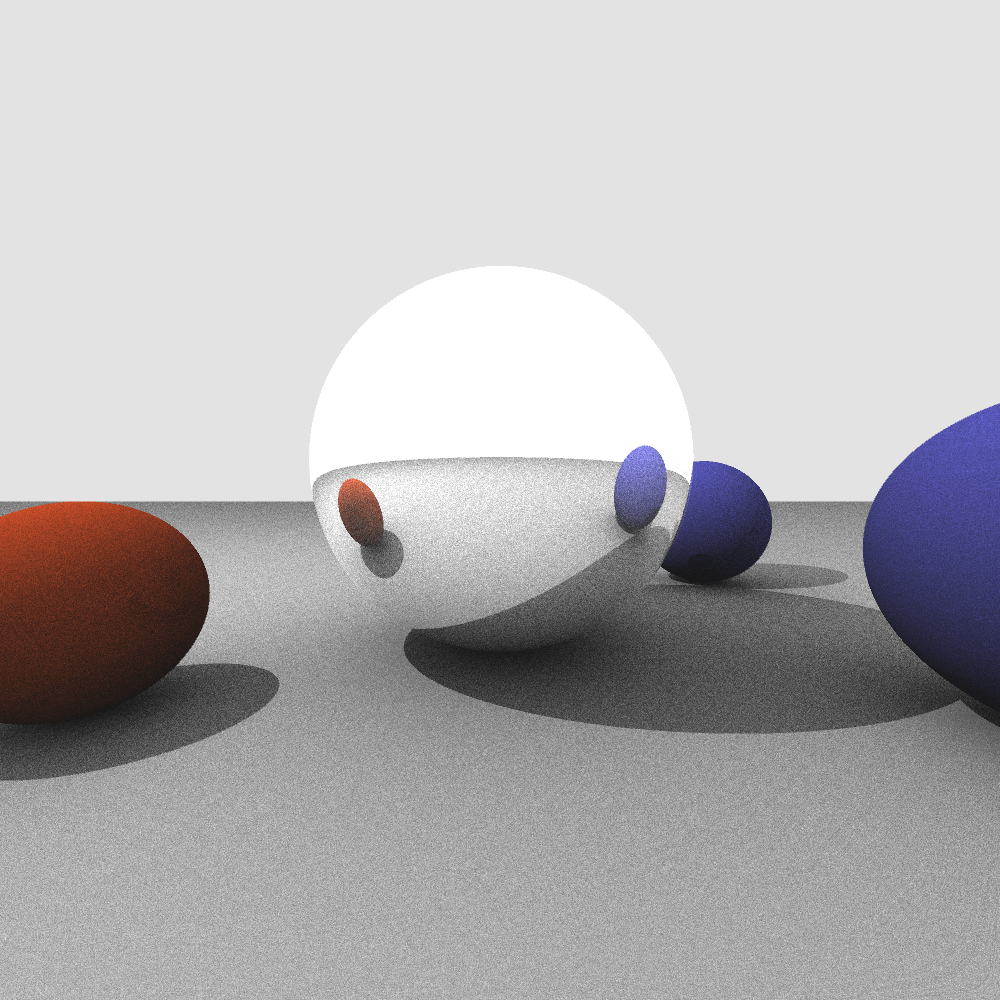
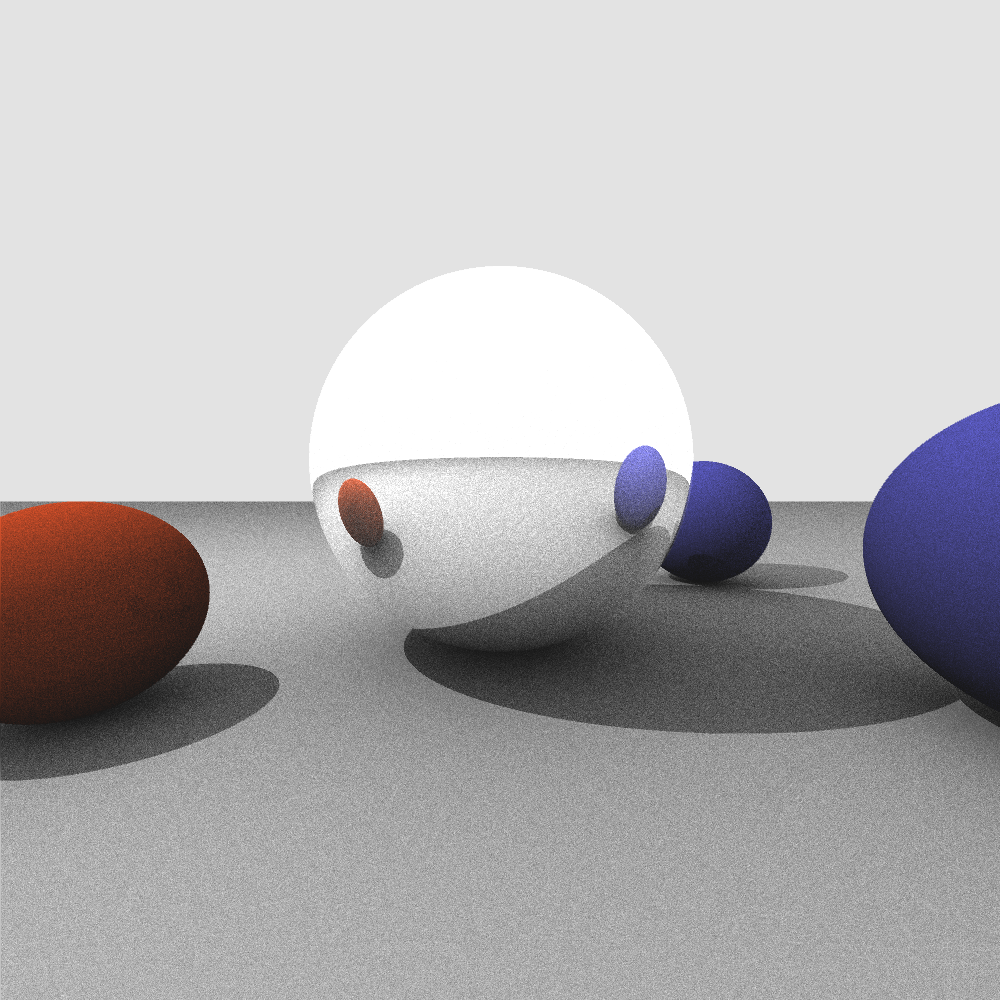
Multithreaded rendering working

Changed region(s): [[0.0, 0.434, 1.0, 1.0], [0.0, 0.496, 0.217, 0.682], [0.899, 0.403, 1.0, 0.589]]

diff --git a/main.c b/main.c
@@ -1,6 +1,7 @@
 #include <stdio.h>
 #include <math.h>
 #include <stdlib.h>
+#include <pthread.h>
 
 #include "vector.h"
 #include "ray.h"
@@ -10,7 +11,23 @@
 #define TESTW 1000
 #define TESTH 1000
 
+#define PERCENTSTEP (TESTH / 100)
+
+#define WORKERS 4
+
+void *worker_func(void *arg);
+
+typedef struct {
+	unsigned id;
+	color_t *image;
+} office_t;
+
+// Height percentage, workers take turn at printing to it. This maaaay be a bad idea
+unsigned percent = 0;
+pthread_mutex_t percentlock;
+
 char container[ CONTAINER_SIZE(5, 4, 1) ];
+container_t *cont = (container_t *) container;
 
 // Implement random 
 COORD_T ray_rand(void *seed)
@@ -20,8 +37,6 @@ COORD_T ray_rand(void *seed)
 
 int main()
 {
-
-	container_t *cont = (container_t *) container;
 	container_init(cont, 5, 4, 1);
 	
 	// Init space_t
@@ -62,13 +77,11 @@ int main()
 	m2->reflective = 1;
 
 	material_t *mpl = add_material(cont);
-	//vector_set(&mpl.color, 0, 0.396, 0.7019);
 	vector_set(&mpl->color, 1, 1, 1);
 	mpl->defuse = 1;
 	mpl->specular = 0.0;
 	mpl->shine = 50;
 	mpl->reflective = 0.0;
-
 
 	viewpoint_init(&s->view);
 	
@@ -104,25 +117,86 @@ int main()
 
 	pgm_write_header(stdout, TESTW, TESTH);
 
-	// Height percentage
-	unsigned percentstep = TESTH / 100;
-	unsigned percent = 0;
-	int seed;
+	// Create image array. Not as memory efficient but much simpler when multiprocessing
+	color_t *image = malloc( sizeof(color_t) * TESTW * TESTH);
+	if (!image) {
+		fprintf(stderr, "Could not allocate image array");	
+		exit(1);
+	}
 
-	for (int y = TESTH; y; y--) {
-		for (int x = TESTW; x; x--) {
-			// Random seed
-			seed = x * y;
-			color_t c;
-			ray_trace(&cont->space, x, y, 2, &c, &seed);
+	if (pthread_mutex_init(&percentlock, NULL)) {
+		fprintf(stderr, "Could not percent lock\n");
+		exit(1);
+	}
 
-			pgm_write_pixel(stdout, &c);
+	// Hire the workers
+	pthread_t workers[WORKERS];
+	for (int i = 0; i < WORKERS; i++) {
+		office_t *office = malloc(sizeof(office_t));
+		office->id = i;
+		office->image = image;
 
-		}
-
-		if (y % percentstep == 0) {
-			fprintf(stderr, "%d%\n", percent++);
+		// Start them and show them their office(chunk in the array in this case :-D)
+		int rc = pthread_create(&workers[i], NULL, worker_func, office);
+		if (rc) {
+			fprintf(stderr, "Could not create worker %d\nsorry\n", i);
+			exit(1);
 		}
 	}
+
+	// Wait for the threads to finish and print as we go
+	for (int i = 0; i < WORKERS; i++) {
+		pthread_join(workers[i], NULL);
+		
+	}
+
+	// Print the stuff the worker was responsable for.
+	for (int y = 0; y < TESTH; y++) {
+		for(int x = 0; x < TESTW; x++) {
+			pgm_write_pixel(stdout, &image[ y  * TESTW + x]);
+		}
+	}
+
+	free(image);
 	
+}
+
+void *worker_func(void *arg) {
+	// Organize our office
+	office_t *office = (office_t *) arg;
+
+	// Timing
+	double rowtime = 0;
+	unsigned count = 0;
+	int seed;
+
+	// Start working
+	for (int y = office->id; y < TESTH; y += WORKERS) {
+		// Start time
+		clock_t t = clock();
+		count++;
+
+		for (int x = 0; x < TESTW; x++) {
+			color_t *c = &office->image[ y * TESTW + x ];
+			//color_t c;
+			seed = x * y;
+			ray_trace(&cont->space, TESTW - x, TESTH - y, 2, c, &seed);
+		}
+
+		// Time stop
+		t = clock() - t;
+		rowtime += ((double)t)/CLOCKS_PER_SEC; // in seconds
+
+		if (y % PERCENTSTEP == 0) {
+			// Unlock the thingy
+			pthread_mutex_lock(&percentlock);	
+			fprintf(stderr, "%d%\n", percent++);
+			pthread_mutex_unlock(&percentlock);	
+		}
+	}
+
+	fprintf(stderr, "Mean row time %lf over %d rounds\n", rowtime / count, count);
+
+	//free(office);
+	pthread_exit(NULL);
 }

diff --git a/ray.h b/ray.h
@@ -22,5 +22,4 @@ COORD_T ray_intersect_plane(plane_t *p, ray_t *ray, bool skip_dist);
 object_t *ray_cast(space_t *s, ray_t *r, COORD_T *dist_ret, bool chk, COORD_T chk_dist);
 void ray_trace(space_t *s, unsigned int x, unsigned int y, unsigned samples, color_t *c, void *seed);
 
-
 #endif
